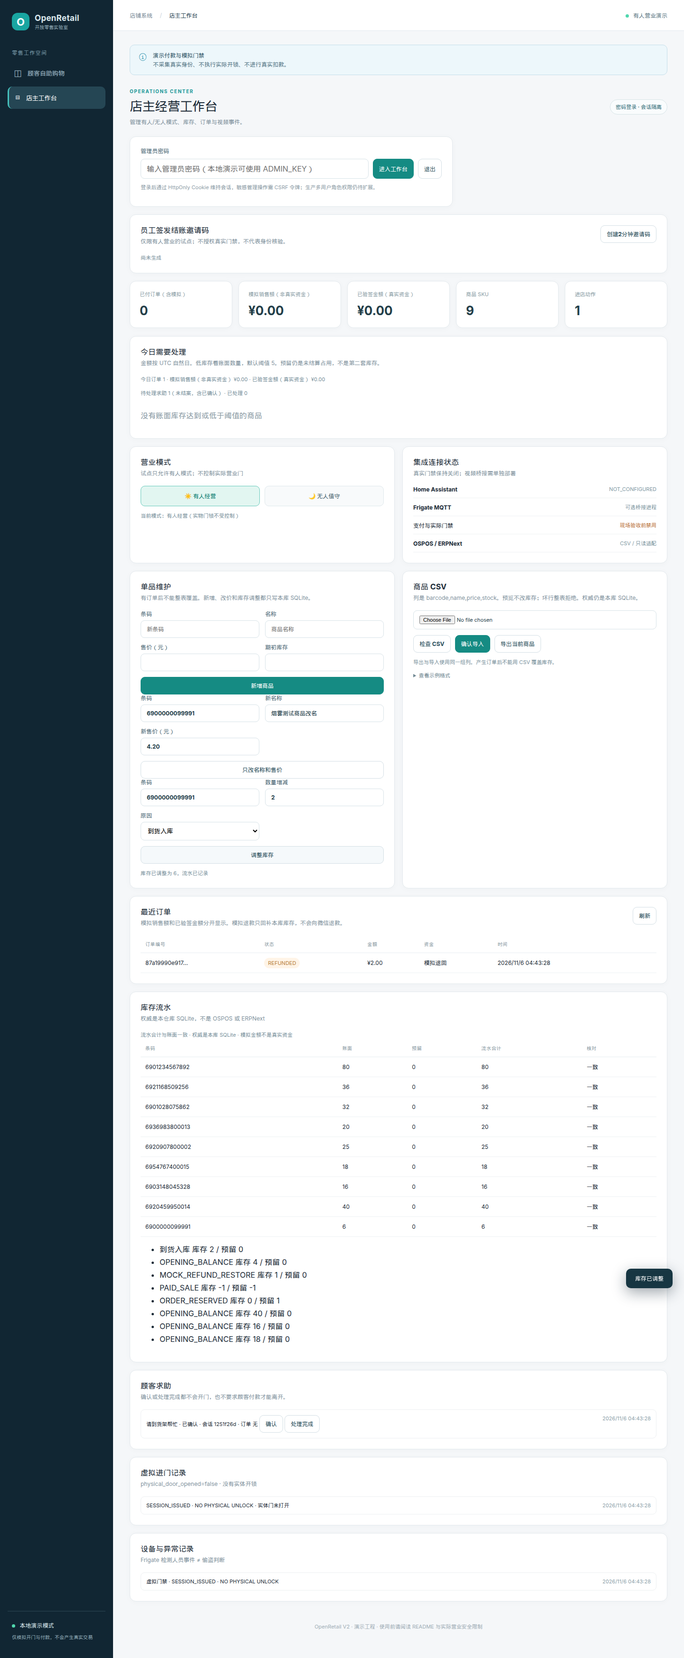
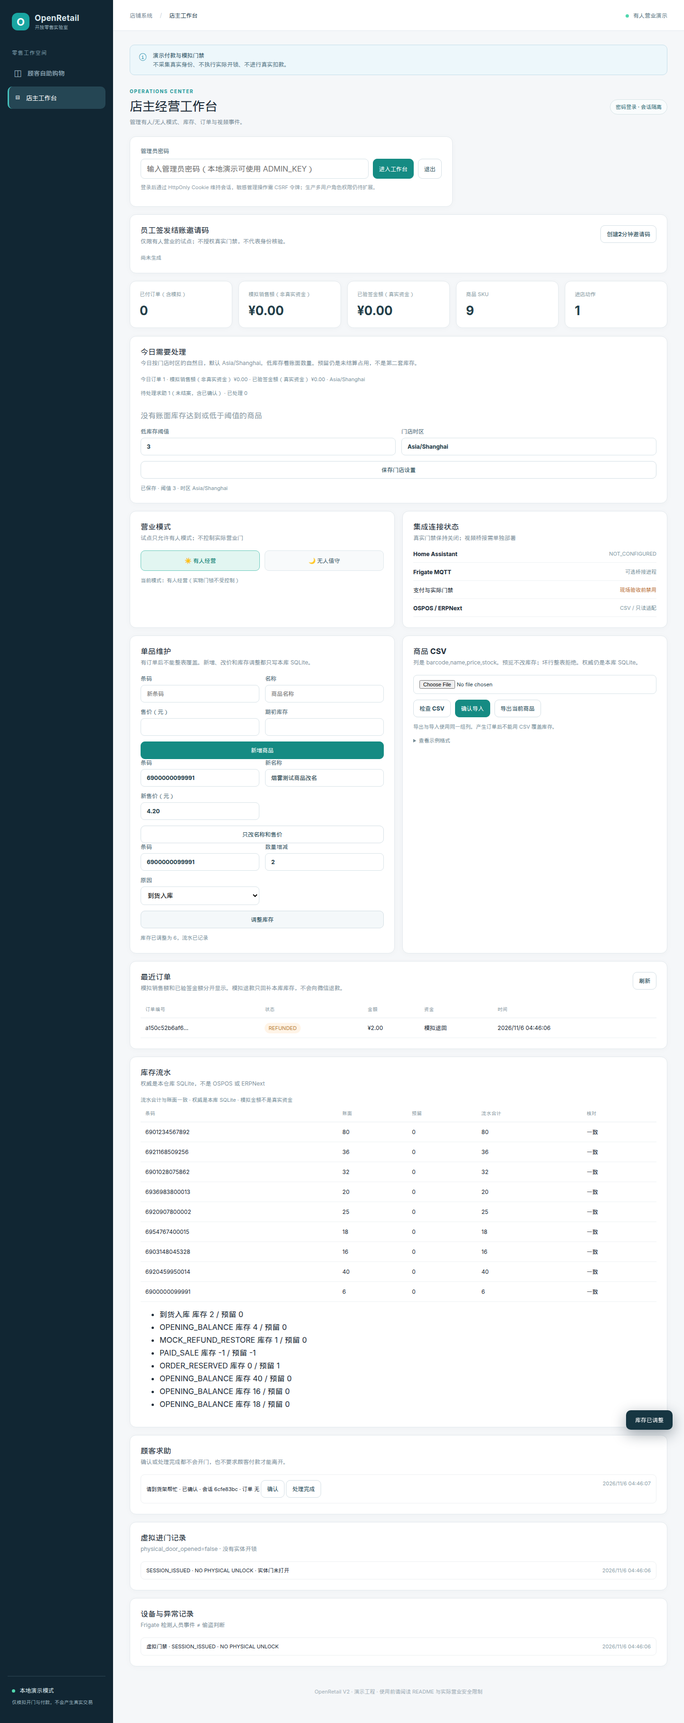
Count the business day in Asia/Shanghai and let staff set the stock threshold.
Today's order totals use the store timezone instead of UTC midnight. Invalid timezone names are rejected, and lowering the low-stock threshold drops products that are now above it.

diff --git a/web/app.js b/web/app.js
@@ -42,7 +42,7 @@ async function showEntryStatus(){const status=await api('/api/entry/status',{gue
 async function createOrder(){if(!state.token)throw Error('先创建访客会话');const req={request_id:(crypto.randomUUID?.()||('demo-'+Date.now()+'-'+Math.random())),lines:[...state.cart].map(([product_id,quantity])=>({product_id,quantity}))};const r=await api('/api/orders',{method:'POST',body:req,guest:true});state.orderId=r.id;$('cancel-order-btn').disabled=false;$('pay-btn').disabled=state.paymentProvider==='DISABLED';$('payment-qr').hidden=true;showPay(r);await refreshMine();return r}
 async function confirmMock(){const r=await api('/api/payments/mock-confirm',{method:'POST',body:{order_id:state.orderId},guest:true});showPay(r);if(r.status==='PAID'){state.cart.clear();state.orderId='';$('cancel-order-btn').disabled=true;$('pay-btn').disabled=true;await loadProducts()}await refreshMine();return r}
 function fundLabel(order){if(order.status==='PAID'&&order.provider==='MOCK_NOT_REAL_MONEY')return '模拟销售额';if(Number(order.verified)===1)return '已验签真实资金';if(order.status==='REFUNDED'&&order.provider==='MOCK_NOT_REAL_MONEY')return '模拟退回';return '未收款'}
-async function adminRefresh(){if(!state.csrf)return;const [overview,orders,events,ledger,help]=await Promise.all([api('/api/admin/overview',{admin:true}),api('/api/admin/orders',{admin:true}),api('/api/admin/events',{admin:true}),api('/api/admin/inventory-ledger',{admin:true}),api('/api/admin/help-requests',{admin:true})]);$('admin-body').hidden=false;$('m-orders').textContent=overview.paid_orders;$('m-sales').textContent=money(overview.simulated_revenue_cents);$('m-real').textContent=money(overview.verified_revenue_cents);$('today-summary').textContent='今日订单 '+overview.today_order_count+' · 模拟销售额（非真实资金） '+money(overview.today_simulated_revenue_cents)+' · 已验签金额（真实资金） '+money(overview.today_verified_revenue_cents);$('help-attention').textContent='待处理求助 '+overview.help_needs_attention+'（未结案，含已确认） · 已处理 '+overview.help_resolved;$('low-stock-list').innerHTML=(overview.low_stock||[]).map(p=>`<div class="event"><span>${esc(p.barcode)} ${esc(p.name)} · 账面 ${p.stock} · 预留 ${p.reserved_stock} · 可售 ${p.available_stock}</span><time>阈值 ${overview.low_stock_threshold}</time></div>`).join('')||'<p class="muted">没有账面库存达到或低于阈值的商品</p>';$('m-products').textContent=overview.products;$('m-entries').textContent=overview.door_events;$('mode-info').textContent='当前模式：'+(overview.mode==='UNATTENDED'?'无人值守':'有人经营')+'（实物门锁不受控制）';$('ha-state').textContent=overview.home_assistant.status;$('mode-staffed').classList.toggle('selected',overview.mode==='STAFFED');$('mode-unattended').classList.toggle('selected',overview.mode==='UNATTENDED');$('order-table').innerHTML=orders.map(o=>{const refund=o.status==='PAID'&&o.provider==='MOCK_NOT_REAL_MONEY'&&Number(o.verified)!==1?`<button class="btn secondary" type="button" data-mock-refund="${esc(o.id)}">模拟退款</button>`:'';return `<tr><td title="${esc(o.id)}">${esc(o.id.slice(0,12))}…</td><td><span class="status ${o.status==='PAID'?'paid':''}">${esc(o.status)}</span></td><td>${money(o.total_cents)}</td><td>${esc(fundLabel(o))}</td><td>${time(o.created_at)}</td><td>${refund}</td></tr>`}).join('')||'<tr><td colspan="6">暂无订单</td></tr>';$('ledger-balance').textContent=(ledger.balanced?'流水合计与账面一致':'流水与账面不一致，需要人工核对')+' · 权威是本库 SQLite · 模拟金额不是真实资金';$('ledger-table').innerHTML=ledger.products.map(p=>`<tr><td>${esc(p.barcode)}</td><td>${p.stock}</td><td>${p.reserved_stock}</td><td>${p.ledger_stock}</td><td>${p.balanced?'一致':'不一致'}</td></tr>`).join('')||'<tr><td colspan="5">没有商品</td></tr>';$('ledger-moves').innerHTML=ledger.movements.slice(0,8).map(m=>`<li>${esc(m.reason)} 库存 ${m.stock_delta} / 预留 ${m.reserved_delta}</li>`).join('');const helpLabel={OPEN:'待处理',ACKNOWLEDGED:'已确认',RESOLVED:'已处理'};$('help-list').innerHTML=(help.requests||[]).map(h=>{const buttons=h.status==='RESOLVED'?'':`<button class="btn secondary" type="button" data-help-id="${esc(h.id)}" data-help-status="ACKNOWLEDGED">确认</button> <button class="btn secondary" type="button" data-help-id="${esc(h.id)}" data-help-status="RESOLVED">处理完成</button>`;return `<div class="event"><span>${esc(h.message)} · ${esc(helpLabel[h.status]||h.status)} · 会话 ${esc((h.session_id||'无').slice(0,8))} · 订单 ${esc((h.order_id||'无').slice(0,8))} ${buttons}</span><time>${time(h.created_at)}</time></div>`}).join('')||'<p class="muted">没有求助</p>';$('door-lock-note').textContent=events.physical_door_opened===false?'physical_door_opened=false · 没有实体开锁':'门状态异常';$('door-event-list').innerHTML=(events.door||[]).map(e=>`<div class="event"><span>${esc(e.result)} · ${esc(e.detail)} · 实体门未打开</span><time>${time(e.created_at)}</time></div>`).join('')||'<p class="muted">没有虚拟进门记录</p>';const incident=events.frigate.map(e=>({name:'Frigate 人员事件 · '+e.camera+' · '+e.event_type,t:e.created_at})),doors=events.door.map(e=>({name:'虚拟门禁 · '+e.result+' · '+e.detail,t:e.created_at}));$('event-list').innerHTML=[...incident,...doors].sort((a,b)=>b.t-a.t).slice(0,15).map(e=>`<div class="event"><span>${esc(e.name)}</span><time>${time(e.t)}</time></div>`).join('')||'<p class="muted">暂无设备事件</p>'}
+async function adminRefresh(){if(!state.csrf)return;const [overview,orders,events,ledger,help]=await Promise.all([api('/api/admin/overview',{admin:true}),api('/api/admin/orders',{admin:true}),api('/api/admin/events',{admin:true}),api('/api/admin/inventory-ledger',{admin:true}),api('/api/admin/help-requests',{admin:true})]);$('admin-body').hidden=false;$('m-orders').textContent=overview.paid_orders;$('m-sales').textContent=money(overview.simulated_revenue_cents);$('m-real').textContent=money(overview.verified_revenue_cents);$('today-summary').textContent='今日订单 '+overview.today_order_count+' · 模拟销售额（非真实资金） '+money(overview.today_simulated_revenue_cents)+' · 已验签金额（真实资金） '+money(overview.today_verified_revenue_cents)+' · '+overview.store_timezone;$('low-stock-threshold').value=overview.low_stock_threshold;$('store-timezone').value=overview.store_timezone;$('help-attention').textContent='待处理求助 '+overview.help_needs_attention+'（未结案，含已确认） · 已处理 '+overview.help_resolved;$('low-stock-list').innerHTML=(overview.low_stock||[]).map(p=>`<div class="event"><span>${esc(p.barcode)} ${esc(p.name)} · 账面 ${p.stock} · 预留 ${p.reserved_stock} · 可售 ${p.available_stock}</span><time>阈值 ${overview.low_stock_threshold}</time></div>`).join('')||'<p class="muted">没有账面库存达到或低于阈值的商品</p>';$('m-products').textContent=overview.products;$('m-entries').textContent=overview.door_events;$('mode-info').textContent='当前模式：'+(overview.mode==='UNATTENDED'?'无人值守':'有人经营')+'（实物门锁不受控制）';$('ha-state').textContent=overview.home_assistant.status;$('mode-staffed').classList.toggle('selected',overview.mode==='STAFFED');$('mode-unattended').classList.toggle('selected',overview.mode==='UNATTENDED');$('order-table').innerHTML=orders.map(o=>{const refund=o.status==='PAID'&&o.provider==='MOCK_NOT_REAL_MONEY'&&Number(o.verified)!==1?`<button class="btn secondary" type="button" data-mock-refund="${esc(o.id)}">模拟退款</button>`:'';return `<tr><td title="${esc(o.id)}">${esc(o.id.slice(0,12))}…</td><td><span class="status ${o.status==='PAID'?'paid':''}">${esc(o.status)}</span></td><td>${money(o.total_cents)}</td><td>${esc(fundLabel(o))}</td><td>${time(o.created_at)}</td><td>${refund}</td></tr>`}).join('')||'<tr><td colspan="6">暂无订单</td></tr>';$('ledger-balance').textContent=(ledger.balanced?'流水合计与账面一致':'流水与账面不一致，需要人工核对')+' · 权威是本库 SQLite · 模拟金额不是真实资金';$('ledger-table').innerHTML=ledger.products.map(p=>`<tr><td>${esc(p.barcode)}</td><td>${p.stock}</td><td>${p.reserved_stock}</td><td>${p.ledger_stock}</td><td>${p.balanced?'一致':'不一致'}</td></tr>`).join('')||'<tr><td colspan="5">没有商品</td></tr>';$('ledger-moves').innerHTML=ledger.movements.slice(0,8).map(m=>`<li>${esc(m.reason)} 库存 ${m.stock_delta} / 预留 ${m.reserved_delta}</li>`).join('');const helpLabel={OPEN:'待处理',ACKNOWLEDGED:'已确认',RESOLVED:'已处理'};$('help-list').innerHTML=(help.requests||[]).map(h=>{const buttons=h.status==='RESOLVED'?'':`<button class="btn secondary" type="button" data-help-id="${esc(h.id)}" data-help-status="ACKNOWLEDGED">确认</button> <button class="btn secondary" type="button" data-help-id="${esc(h.id)}" data-help-status="RESOLVED">处理完成</button>`;return `<div class="event"><span>${esc(h.message)} · ${esc(helpLabel[h.status]||h.status)} · 会话 ${esc((h.session_id||'无').slice(0,8))} · 订单 ${esc((h.order_id||'无').slice(0,8))} ${buttons}</span><time>${time(h.created_at)}</time></div>`}).join('')||'<p class="muted">没有求助</p>';$('door-lock-note').textContent=events.physical_door_opened===false?'physical_door_opened=false · 没有实体开锁':'门状态异常';$('door-event-list').innerHTML=(events.door||[]).map(e=>`<div class="event"><span>${esc(e.result)} · ${esc(e.detail)} · 实体门未打开</span><time>${time(e.created_at)}</time></div>`).join('')||'<p class="muted">没有虚拟进门记录</p>';const incident=events.frigate.map(e=>({name:'Frigate 人员事件 · '+e.camera+' · '+e.event_type,t:e.created_at})),doors=events.door.map(e=>({name:'虚拟门禁 · '+e.result+' · '+e.detail,t:e.created_at}));$('event-list').innerHTML=[...incident,...doors].sort((a,b)=>b.t-a.t).slice(0,15).map(e=>`<div class="event"><span>${esc(e.name)}</span><time>${time(e.t)}</time></div>`).join('')||'<p class="muted">暂无设备事件</p>'}
 async function run(fn){try{await fn()}catch(e){toast(e.message);console.error(e)}}
 document.addEventListener('click',e=>{const refund=e.target.closest('[data-mock-refund]');if(refund){run(async()=>{const r=await api('/api/admin/orders/'+refund.dataset.mockRefund+'/mock-refund',{admin:true,method:'POST'});toast(r.real_money?'异常：模拟退款不应产生真实资金':'模拟退款已回补库存，不是微信退款');await adminRefresh();await loadProducts()});return}const helpAction=e.target.closest('[data-help-status]');if(helpAction){run(async()=>{const r=await api('/api/admin/help-requests/'+helpAction.dataset.helpId+'/status',{admin:true,method:'POST',body:{status:helpAction.dataset.helpStatus}});if(r.physical_door_opened||r.payment_required_to_leave||r.door_authorized)throw Error('处理求助不应开门或要求付款');toast(r.status==='RESOLVED'?'求助已处理，门未打开':'已确认求助，门未打开');await adminRefresh()});return}const nav=e.target.closest('[data-panel]');if(nav){document.querySelectorAll('.nav').forEach(n=>n.classList.toggle('active',n===nav));['shop','admin'].forEach(p=>$('panel-'+p).hidden=p!==nav.dataset.panel);$('current-title').textContent=nav.dataset.panel==='shop'?'顾客自助购物':'店主工作台';if(nav.dataset.panel==='admin')run(adminRefresh)}const addButton=e.target.closest('[data-add]');if(addButton)add(addButton.dataset.add);const minus=e.target.closest('[data-minus]');if(minus){if(state.orderId){toast('请先完成或取消当前订单');return}const id=Number(minus.dataset.minus);const q=(state.cart.get(id)||0)-1;if(q<=0)state.cart.delete(id);else state.cart.set(id,q);state.orderId='';$('pay-btn').disabled=true;renderCart()}});
 $('entry-btn').onclick=()=>run(async()=>{const s=await api('/api/entry',{method:'POST'});state.token=s.guest_token;sessionStorage.setItem('retail_guest',state.token);$('entry-result').textContent='访客会话创建成功（未进行身份核验）；有效期至 '+time(s.expires_at);$('door-btn').disabled=false;await showEntryStatus();renderCart();toast('演示访客会话已创建')});
@@ -107,6 +107,7 @@ $('admin-login').onclick=()=>run(async()=>{const r=await api('/api/admin/login',
 $('admin-logout').onclick=()=>run(async()=>{if(state.csrf)await api('/api/admin/logout',{admin:true,method:'POST'});state.csrf='';$('admin-key').value='';$('admin-body').hidden=true;toast('已退出管理会话')});
 for(const [id,mode] of [['mode-staffed','STAFFED'],['mode-unattended','UNATTENDED']])$(id).onclick=()=>run(async()=>{await api('/api/admin/mode',{admin:true,method:'PUT',body:{mode}});await adminRefresh();await store();toast('模拟营业模式已切换')});
 $('refresh-admin').onclick=()=>run(async()=>{await adminRefresh();await loadProducts();toast('数据已刷新')});
+$('store-settings-form').onsubmit=e=>{e.preventDefault();run(async()=>{const threshold=Number($('low-stock-threshold').value);const timezone=$('store-timezone').value.trim();const r=await api('/api/admin/store-settings',{admin:true,method:'PUT',body:{low_stock_threshold:threshold,timezone}});if(r.physical_door_opened||r.real_door_enabled)throw Error('门店设置不应打开门锁');$('store-settings-status').textContent='已保存 · 阈值 '+r.low_stock_threshold+' · 时区 '+r.store_timezone;await adminRefresh();toast('门店设置已保存')})};
 async function adminProduct(barcode){const rows=await api('/api/admin/products',{admin:true});const found=rows.find(item=>item.barcode===barcode);if(!found)throw Error('找不到条码 '+barcode);return found}
 $('product-form').onsubmit=e=>{e.preventDefault();run(async()=>{const f=new FormData(e.target);const r=await api('/api/admin/products',{admin:true,method:'POST',body:{barcode:String(f.get('barcode')).trim(),name:String(f.get('name')).trim(),price_cents:Math.round(Number(f.get('price'))*100),stock:Number(f.get('stock')),active:true}});$('product-status').textContent='已新增 '+r.barcode+'，期初库存 '+r.stock+' 已入账';e.target.reset();await adminRefresh();await loadProducts();toast('商品已新增')})};
 $('edit-form').onsubmit=e=>{e.preventDefault();run(async()=>{const f=new FormData(e.target);const before=await adminProduct(String(f.get('barcode')).trim());const r=await api('/api/admin/products/'+before.id,{admin:true,method:'PATCH',body:{name:String(f.get('name')).trim(),price_cents:Math.round(Number(f.get('price'))*100)}});if(r.stock!==before.stock||r.stock_changed)throw Error('改价不应改库存');$('product-status').textContent='已改名称和售价，库存仍为 '+r.stock;await loadProducts();toast('名称和售价已更新')})};

diff --git a/web/index.html b/web/index.html
@@ -46,7 +46,7 @@
           <p>仅限有人营业的试点；不授权真实门禁，不代表身份核验。</p></div><button id="issue-invite" class="btn secondary">创建2分钟邀请码</button></div>
           <div id="invite-result" class="inline-note">尚未生成</div><img id="invite-qr" class="qr-code" alt="试点结账二维码" hidden></article>
         <div class="metrics"><div class="metric"><span>已付订单（含模拟）</span><strong id="m-orders">—</strong></div><div class="metric"><span>模拟销售额（非真实资金）</span><strong id="m-sales">—</strong></div><div class="metric"><span>已验签金额（真实资金）</span><strong id="m-real">—</strong></div><div class="metric"><span>商品 SKU</span><strong id="m-products">—</strong></div><div class="metric"><span>进店动作</span><strong id="m-entries">—</strong></div></div>
-        <article class="surface" id="ops-summary"><div class="surface-heading"><div><h2>今日需要处理</h2><p>金额按 UTC 自然日。低库存看账面数量，默认阈值 5。预留仍是未结算占用，不是第二套库存。</p></div></div><p id="today-summary" class="inline-note">登录后显示</p><p id="help-attention" class="inline-note">求助未结案：—</p><div id="low-stock-list" class="events"><p class="muted">没有达到阈值的商品</p></div></article>
+        <article class="surface" id="ops-summary"><div class="surface-heading"><div><h2>今日需要处理</h2><p>今日按门店时区的自然日，默认 Asia/Shanghai。低库存看账面数量。预留仍是未结算占用，不是第二套库存。</p></div></div><p id="today-summary" class="inline-note">登录后显示</p><p id="help-attention" class="inline-note">求助未结案：—</p><div id="low-stock-list" class="events"><p class="muted">没有达到阈值的商品</p></div><form id="store-settings-form" class="product-form"><label>低库存阈值<input id="low-stock-threshold" name="threshold" type="number" min="1" max="10000" required></label><label>门店时区<input id="store-timezone" name="timezone" required placeholder="Asia/Shanghai"></label><button class="btn secondary" type="submit">保存门店设置</button></form><div id="store-settings-status" class="inline-note">尚未修改</div></article>
         <div class="admin-grid">
           <article class="surface"><div class="surface-heading"><div><h2>营业模式</h2><p>试点只允许有人模式；不控制实际营业门</p></div></div><div class="mode-options"><button id="mode-staffed" class="mode-btn">☀ 有人经营</button><button id="mode-unattended" class="mode-btn">🌙 无人值守</button></div><div class="inline-note" id="mode-info">当前模式：—</div></article>
           <article class="surface"><div class="surface-heading"><div><h2>集成连接状态</h2><p>真实门禁保持关闭；视频桥接需单独部署</p></div></div><div class="integrations"><div><b>Home Assistant</b><span id="ha-state">未启用</span></div><div><b>Frigate MQTT</b><span>可选桥接进程</span></div><div><b>支付与实际门禁</b><span class="status-warning">现场验收前禁用</span></div><div><b>OSPOS / ERPNext</b><span>CSV / 只读适配</span></div></div></article>

diff --git a/openretail/main.py b/openretail/main.py
@@ -7,7 +7,8 @@ allowed only with separately configured WeChat Native merchant credentials.
 import hashlib
 import sys
 import base64
-from datetime import datetime, timezone
+from datetime import datetime
+from zoneinfo import ZoneInfo
 import io
 import qrcode
 import hmac
@@ -34,6 +35,17 @@ from .importer import parse_catalog,write_catalog,ImportErrorDetail
 ROOT=Path(__file__).resolve().parent.parent
 
 def now()->int:return int(time.time())
+
+def load_zone(name:str)->ZoneInfo:
+    try:return ZoneInfo(name)
+    except Exception:
+        abort(422,'无法识别的时区名称，例如 Asia/Shanghai')
+
+def local_day_start(zone:ZoneInfo)->int:
+    # Aware local midnight. Stored order times stay UTC epoch seconds.
+    local_now=datetime.now(zone)
+    start=local_now.replace(hour=0,minute=0,second=0,microsecond=0)
+    return int(start.timestamp())
 def abort(status:int,message:str):raise HTTPException(status_code=status,detail=message)
 def asdict(row):return dict(row) if row is not None else None
 
@@ -75,6 +87,9 @@ class HelpInput(BaseModel):
     order_id:str|None=Field(default=None,max_length=64)
 class HelpStatus(BaseModel):
     status:str
+class StoreSettingsInput(BaseModel):
+    low_stock_threshold:int|None=Field(default=None,ge=1,le=10_000)
+    timezone:str|None=Field(default=None,min_length=1,max_length=64)
 
 
 def create_app(settings:Settings|None=None)->FastAPI:
@@ -729,8 +744,11 @@ def create_app(settings:Settings|None=None)->FastAPI:
             review=c.execute("SELECT COUNT(*) n FROM orders WHERE status='PAYMENT_REVIEW'").fetchone()['n']
             entry=c.execute('SELECT COUNT(*) n FROM door_events').fetchone()['n']
             incidents=c.execute('SELECT COUNT(*) n FROM incidents').fetchone()['n']
-            day=datetime.now(timezone.utc).replace(hour=0,minute=0,second=0,microsecond=0)
-            day_start=int(day.timestamp())
+            zone_row=c.execute("SELECT value FROM store_settings WHERE key='store_timezone'").fetchone()
+            zone_name=zone_row['value'] if zone_row and zone_row['value'] else 'Asia/Shanghai'
+            try:zone=ZoneInfo(zone_name)
+            except Exception:abort(500,'门店时区配置无效')
+            day_start=local_day_start(zone)
             today_orders=c.execute('SELECT COUNT(*) n FROM orders WHERE created_at>=?',(day_start,)).fetchone()['n']
             today_paid=c.execute("SELECT COALESCE(SUM(total_cents),0) n FROM orders WHERE status='PAID' AND paid_at>=?",(day_start,)).fetchone()['n']
             today_real=c.execute('''SELECT COALESCE(SUM(o.total_cents),0) n FROM orders o
@@ -752,7 +770,8 @@ def create_app(settings:Settings|None=None)->FastAPI:
                 'today_order_count':today_orders,
                 'today_simulated_revenue_cents':today_paid-today_real,
                 'today_verified_revenue_cents':today_real,
-                'today_basis':'UTC calendar day',
+                'today_basis':zone_name+' calendar day',
+                'store_timezone':zone_name,
                 'help_needs_attention':help_open+help_ack,
                 'help_open':help_open,'help_acknowledged':help_ack,'help_resolved':help_resolved,
                 'low_stock_threshold':threshold,
@@ -767,6 +786,27 @@ def create_app(settings:Settings|None=None)->FastAPI:
             c.execute("UPDATE store_settings SET value=? WHERE key='mode'",(payload.mode,))
             db.audit(c,'operator','MODE_SET',payload.mode)
         return {'mode':payload.mode,'physical_door_affected':False}
+
+    @app.put('/api/admin/store-settings',dependencies=[Depends(admin)])
+    def update_store_settings(payload:StoreSettingsInput):
+        """Staff threshold and business-day timezone. No door or payment side effects."""
+        if payload.low_stock_threshold is None and payload.timezone is None:
+            abort(422,'请提供低库存阈值或门店时区')
+        if payload.timezone is not None:
+            load_zone(payload.timezone)
+        with db.tx() as c:
+            if payload.low_stock_threshold is not None:
+                c.execute('''INSERT INTO store_settings(key,value) VALUES('low_stock_threshold',?)
+                             ON CONFLICT(key) DO UPDATE SET value=excluded.value''',(str(payload.low_stock_threshold),))
+            if payload.timezone is not None:
+                c.execute('''INSERT INTO store_settings(key,value) VALUES('store_timezone',?)
+                             ON CONFLICT(key) DO UPDATE SET value=excluded.value''',(payload.timezone,))
+            db.audit(c,'operator','STORE_SETTINGS',
+                     f"threshold={payload.low_stock_threshold};timezone={payload.timezone or ''}")
+            threshold=int(c.execute("SELECT value FROM store_settings WHERE key='low_stock_threshold'").fetchone()['value'])
+            zone_name=c.execute("SELECT value FROM store_settings WHERE key='store_timezone'").fetchone()['value']
+        return {'low_stock_threshold':threshold,'store_timezone':zone_name,
+                'physical_door_opened':False,'real_door_enabled':False}
 
     @app.get('/api/admin/products',dependencies=[Depends(admin)])
     def admin_products():

diff --git a/tests/test_ops_summary.py b/tests/test_ops_summary.py
@@ -1,10 +1,13 @@
 """Daily admin glance: mock money stays separate from verified money, and low stock is on-hand."""
-from datetime import datetime, timezone
+from datetime import datetime, timedelta, timezone
+from zoneinfo import ZoneInfo
 from conftest import visitor
+
+SHANGHAI=ZoneInfo('Asia/Shanghai')
 
 
 def day_start():
-    moment=datetime.now(timezone.utc).replace(hour=0,minute=0,second=0,microsecond=0)
+    moment=datetime.now(SHANGHAI).replace(hour=0,minute=0,second=0,microsecond=0)
     return int(moment.timestamp())
 
 
@@ -22,6 +25,8 @@ def test_today_summary_counts_mock_sales_only_and_ignores_resolved_help(client, 
     assert client.post(f"/api/admin/help-requests/{resolved['id']}/status", headers=admin_header,
                        json={'status':'RESOLVED'}).status_code==200
     summary=client.get('/api/admin/overview', headers=admin_header).json()
+    assert summary['store_timezone']=='Asia/Shanghai'
+    assert summary['today_basis']=='Asia/Shanghai calendar day'
     assert summary['real_door_enabled'] is False
     assert summary['today_order_count']>=1
     assert summary['today_simulated_revenue_cents']==product['price_cents']
@@ -56,3 +61,41 @@ def test_low_stock_uses_on_hand_and_still_shows_reservations(client, admin_heade
     assert row['stock']==5 and row['reserved_stock']==2 and row['available_stock']==3
     assert summary['today_verified_revenue_cents']==0
     assert summary['real_door_enabled'] is False
+
+
+def test_shanghai_early_morning_counts_today_and_threshold_update_hides_stock_five(client, admin_header):
+    local_now=datetime.now(SHANGHAI)
+    local_day=local_now.date()
+    one_am=datetime(local_day.year, local_day.month, local_day.day, 1, 0, tzinfo=SHANGHAI)
+    previous_evening=one_am-timedelta(hours=2)
+    # 01:00 in Shanghai is 17:00 on the previous UTC date. The business day must still be local date D.
+    assert one_am.astimezone(timezone.utc).date()==local_day-timedelta(days=1)
+    guest=visitor(client)
+    product=client.get('/api/products').json()[0]
+    morning=client.post('/api/orders', headers=guest, json={'request_id':'shanghai-0100-today',
+        'lines':[{'product_id':product['id'], 'quantity':1}]}).json()
+    evening=client.post('/api/orders', headers=guest, json={'request_id':'shanghai-previous-evening',
+        'lines':[{'product_id':product['id'], 'quantity':1}]}).json()
+    assert client.post('/api/payments/mock-confirm', headers=guest, json={'order_id':morning['id']}).json()['payment_kind']=='MOCK_NOT_REAL_MONEY'
+    assert client.post('/api/payments/mock-confirm', headers=guest, json={'order_id':evening['id']}).json()['real_money'] is False
+    with client.app.state.db.tx() as conn:
+        conn.execute('UPDATE orders SET created_at=?, paid_at=? WHERE id=?', (int(one_am.timestamp()), int(one_am.timestamp()), morning['id']))
+        conn.execute('UPDATE orders SET created_at=?, paid_at=? WHERE id=?', (int(previous_evening.timestamp()), int(previous_evening.timestamp()), evening['id']))
+    summary=client.get('/api/admin/overview', headers=admin_header).json()
+    assert summary['today_verified_revenue_cents']==0
+    assert summary['today_simulated_revenue_cents']==product['price_cents']
+    assert summary['today_order_count']==1
+    bad=client.put('/api/admin/store-settings', headers=admin_header, json={'timezone':'Not/AZone'})
+    assert bad.status_code==422
+    assert client.get('/api/admin/overview', headers=admin_header).json()['store_timezone']=='Asia/Shanghai'
+    low=client.post('/api/admin/products', headers=admin_header, json={
+        'barcode':'6900000050005', 'name':'阈值边界', 'price_cents':100, 'stock':5, 'active':True}).json()
+    listed={row['barcode'] for row in client.get('/api/admin/overview', headers=admin_header).json()['low_stock']}
+    assert low['barcode'] in listed
+    changed=client.put('/api/admin/store-settings', headers=admin_header, json={'low_stock_threshold':4})
+    assert changed.status_code==200
+    assert changed.json()['low_stock_threshold']==4
+    assert changed.json()['physical_door_opened'] is False and changed.json()['real_door_enabled'] is False
+    hidden={row['barcode'] for row in client.get('/api/admin/overview', headers=admin_header).json()['low_stock']}
+    assert low['barcode'] not in hidden
+    assert client.get('/api/admin/overview', headers=admin_header).json()['today_verified_revenue_cents']==0

diff --git a/scripts/ui_bridge_smoke.py b/scripts/ui_bridge_smoke.py
@@ -64,7 +64,8 @@ with TestClient(create_app(cfg)) as backend,sync_playwright() as pw:
  p.wait_for_function("document.querySelector('#ledger-balance').textContent.includes('一致')")
  p.wait_for_function("document.querySelector('#m-sales').textContent.includes('¥')")
  assert p.locator('#m-real').inner_text()=='¥0.00'
- p.wait_for_function("document.querySelector('#today-summary').textContent.includes('模拟销售额（非真实资金）') && document.querySelector('#today-summary').textContent.includes('已验签金额（真实资金） ¥0.00') && document.querySelector('#today-summary').textContent.includes('¥2.00')")
+ p.wait_for_function("document.querySelector('#today-summary').textContent.includes('模拟销售额（非真实资金）') && document.querySelector('#today-summary').textContent.includes('已验签金额（真实资金） ¥0.00') && document.querySelector('#today-summary').textContent.includes('¥2.00') && document.querySelector('#today-summary').textContent.includes('Asia/Shanghai')")
+ p.wait_for_function("document.querySelector('#store-timezone').value==='Asia/Shanghai'")
  p.wait_for_function("document.querySelector('#help-attention').textContent.includes('待处理求助')")
  p.locator('[data-mock-refund]').click()
  p.wait_for_function("document.querySelector('#order-table').textContent.includes('模拟退回')")
@@ -75,6 +76,10 @@ with TestClient(create_app(cfg)) as backend,sync_playwright() as pw:
  p.locator('#product-form button[type="submit"]').click()
  p.wait_for_function("document.querySelector('#product-status').textContent.includes('已新增')")
  p.wait_for_function("document.querySelector('#low-stock-list').textContent.includes('6900000099991') && document.querySelector('#low-stock-list').textContent.includes('预留')")
+ p.locator('#low-stock-threshold').fill('3')
+ p.locator('#store-settings-form button[type="submit"]').click()
+ p.wait_for_function("document.querySelector('#store-settings-status').textContent.includes('已保存') && document.querySelector('#store-settings-status').textContent.includes('阈值 3')")
+ p.wait_for_function("!document.querySelector('#low-stock-list').textContent.includes('6900000099991')")
  p.locator('#edit-form input[name="barcode"]').fill('6900000099991')
  p.locator('#edit-form input[name="name"]').fill('烟雾测试商品改名')
  p.locator('#edit-form input[name="price"]').fill('4.20')

diff --git a/openretail/database.py b/openretail/database.py
@@ -173,6 +173,7 @@ class Database:
             c.execute("INSERT OR IGNORE INTO store_settings(key,value) VALUES('mode','STAFFED')")
             # On-hand book quantity at or below this value is the store-wide low-stock list.
             c.execute("INSERT OR IGNORE INTO store_settings(key,value) VALUES('low_stock_threshold','5')")
+            c.execute("INSERT OR IGNORE INTO store_settings(key,value) VALUES('store_timezone','Asia/Shanghai')")
             if demo and not c.execute('SELECT 1 FROM products LIMIT 1').fetchone():
                 c.executemany('INSERT INTO products(barcode,name,price_cents,stock) VALUES(?,?,?,?)',SEED)
             # SQLite in this repository is the inventory system of record. Products

diff --git a/docs/PROJECT_STATUS.md b/docs/PROJECT_STATUS.md
@@ -4,6 +4,18 @@
 
 完全无人值守经营仍是 **NOT_APPROVED**。示例配置里的真实支付和实体开锁都是关闭的。
 
+## 本增量（上海营业日和可改的低库存阈值）
+
+已在代码和测试里做到，并在本机复跑：
+
+- 今日订单、今日模拟销售额、今日已验签金额按门店时区的自然日计算。`store_settings.store_timezone` 默认 `Asia/Shanghai`。比较用带时区的本地零点换成 UTC 纪元秒，不把 naive 时间当成当地时间，也不改主机时区。
+- 上海时间当天 01:00 的模拟订单计入当天，即使它的 UTC 日期是前一天。前一个当地日历日的订单不计入。无法识别的时区名称返回 422，原设置不变。
+- 管理页可以保存低库存阈值和时区，沿用管理员登录和 CSRF。账面库存 5 在阈值 5 时出现，改成 4 后不再出现。已验签金额仍是 0。保存设置不会开门。
+
+`/tmp/openretail-venv/bin/python -m pytest -q`（工作目录 `/workspace`，Python 3.12.3）：**53 passed，1 warning，4.97s，退出码 0**。警告仍是 Starlette 的 `httpx` TestClient 弃用提示。53 = 上一轮 52 + 本增量 1。
+
+`scripts/ui_bridge_smoke.py` 在去掉密钥环境变量后退出码 0。今日摘要含 `Asia/Shanghai`、模拟销售额和「已验签金额（真实资金） ¥0.00」。账面为 4 的新商品先出现在低库存列表；把阈值存成 3 之后，该条码从列表消失。390 宽 `scrollWidth` 390，1440 宽 `scrollWidth` 1440，`pageerror` 为空。脚本没有做浏览器内的时间穿越；01:00 边界由 pytest 固定时间戳覆盖。这仍是 Chrome 到 TestClient 的桥，不是真机，也不是真实收款。
+
 ## 本增量（今日摘要和低库存）
 
 已在代码和测试里做到，并在本机复跑：
